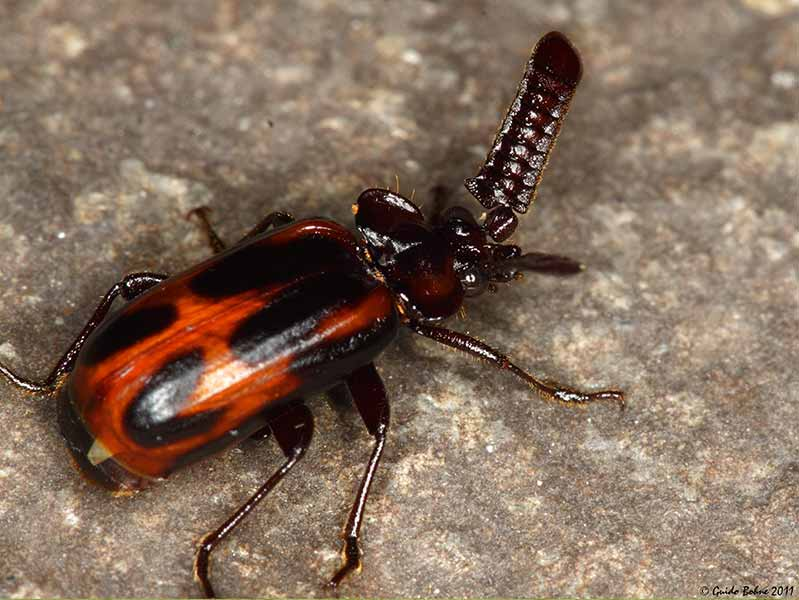
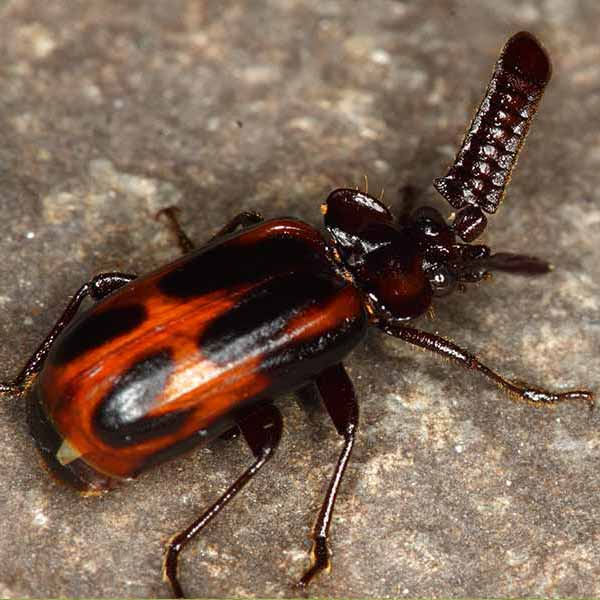
Fixed image sizes in Photoshop and added footer.

diff --git a/css/main.css b/css/main.css
@@ -9,11 +9,22 @@ body{
 
 .masthead {
 	background-image: url("../images/beetle-logo.svg"), url("../images/beetle-logo.svg"), url("../images/waves.png");
-	background-repeat: repeat, no-repeat;
-	background-size: 30px auto;
+	background-repeat: no-repeat, no-repeat, repeat;
+	background-size: 30px auto, 30px auto, 100px auto;
 	overflow: hidden;
 	text-align: center;
+}
 
+
+.bannerdirt {
+	position: relative;
+	padding: 0em;
+	clear:both;
+	margin-bottom: -4px;
+}
+
+header {
+	position: relative;
 }
 
 h1 {
@@ -21,15 +32,48 @@ h1 {
 }
 
 h2 {
+	text-align: center;
+	color: white;
+	margin: 0;
+}
 
+li {
+	text-decoration: none;
 }
 
 nav {
 
 }
 
+nav a:hover {
+	opacity: 75%;
+}
+
 div {
 
+}
+
+.ant-beetle {
+	float: left;
+	width: 50%;
+}
+
+.stag-beetle {
+	float: right;
+	width: 50%;
+}
+
+.dung-beetle {
+	float: left;
+	width: 50%;
+}
+.tortoise-beetle {
+	float: left;
+	width: 50%;
+}
+
+img {
+	width: 100%;
 }
 
 .bannerdirt {
@@ -37,7 +81,11 @@ div {
 }
 
 footer {
-	background-color: rgba (81, 34, 0, 0.5);
-	background-image: url (".../images/beetle-logo.svg");
-	background-size: 30px auto;
+	background-image: url(".../images/beetle-logo.svg");
+	background-color: rgba(81, 34, 0, 0.5);
+	background-size: 20px auto;
+	background-position: center center;
+	background-repeat: no-repeat;
+	padding: 1em;
+	clear: both;
 }

diff --git a/index.html b/index.html
@@ -29,24 +29,33 @@
 
 <div>
 	<div class="bannerdirt">
-			<h2><i>Beetles: 25% of all known animal life-forms.</i></h2>
+		<h2><i>Beetles: 25% of all known animal life-forms.</i></h2>
 		<img class="banner" src="images/dirt.jpg" alt="Dirt banner.">
 	</div>
 </div>
 
-<div>
-	<img class="antnest" src="images/ant-beetle.jpg" alt="Ant Nest.">
+<div class="ant-beetle">
+	<img src="images/ant-beetle.jpg" alt="Ant Nest.">
 Ant Nest
-	<img class="stag" src="images/stag-beetle.jpg" alt="A stag.">
-Stag
-	<img class="dung" src="images/dung-beetle.jpg" alt="A dung beetle.">
-Dung
-	<img class="tortoise" src="images/tortoise-beetle.jpg" alt="Dirt banner.">
-Tortoise
+</div>
+
+<div class="stag-beetle">
+	<img src="images/stag-beetle.jpg" alt="A stag.">
+	<a>Stag</a>
+</div>
+
+<div class="dung-beetle">
+	<img src="images/dung-beetle.jpg" alt="A dung beetle.">
+	<a>Dung</a>
+</div>
+
+<div class="tortoise-beetle">
+	<img src="images/tortoise-beetle.jpg" alt="Dirt banner.">
+	<a>Tortoise</a>
 </div>
 
 <footer>
-	<img class="footerbuglogo" src="images/beetle-logo.svg" alt="An illustration of a beetle.">
+
 </footer>
 
 </body>
